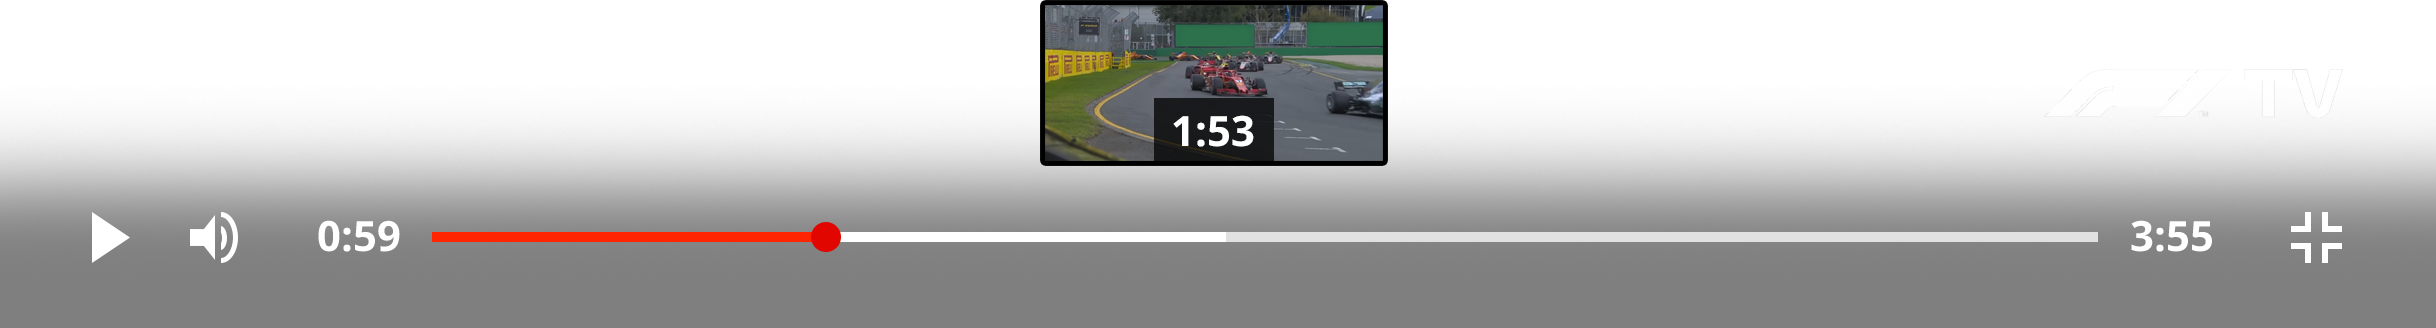
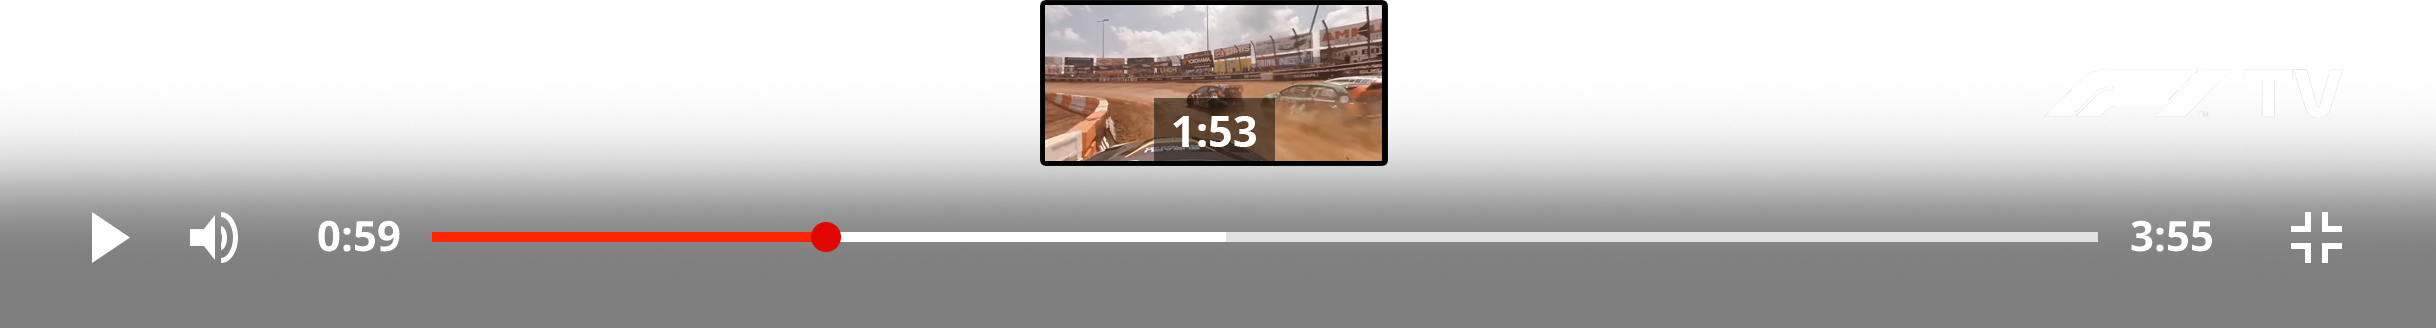
Change order of videos on live/vod. Update schedule.

Changed region(s): [[0.4056, 0.0, 0.5928, 0.4878]]

diff --git a/schedule.html b/schedule.html
@@ -1,24 +1,23 @@
-<html lang="en"><head>
+<html lang="en">
+<head>
     <meta charset="UTF-8">
     <meta name="viewport" content="width=device-width, initial-scale=1.0">
     <meta http-equiv="X-UA-Compatible" content="ie=edge">
-    <title>BESTSEAT360 - Formula 1</title>
-    <script src="https://kit.fontawesome.com/a076d05399.js"></script><link rel="stylesheet" href="https://kit-free.fontawesome.com/releases/latest/css/free.min.css" media="all">
+    <title>BESTSEAT360 - Toyota Yaris</title>
+    <script src="https://kit.fontawesome.com/a076d05399.js"></script>
+    <link rel="stylesheet" href="https://kit-free.fontawesome.com/releases/latest/css/free.min.css" media="all">
     <link rel="stylesheet" href="/css/bestseat360_styles.css">
-    <!-- <link rel="stylesheet" href="https://cdnjs.cloudflare.com/ajax/libs/font-awesome/4.7.0/css/font-awesome.min.css"> -->
-    <script src="/js/utilities.js"></script>
-    
-        <link rel="stylesheet" href="https://stackpath.bootstrapcdn.com/bootstrap/4.1.3/css/bootstrap.min.css" integrity="sha384-MCw98/SFnGE8fJT3GXwEOngsV7Zt27NXFoaoApmYm81iuXoPkFOJwJ8ERdknLPMO" crossorigin="anonymous">
-        <link href="https://fonts.googleapis.com/css?family=Open+Sans:400,800&amp;display=swap" rel="stylesheet">
-        <link rel="stylesheet" href="css/rally.css?d='23520'">
-        <link rel="icon" href="assets/home/logo_icon.png" type="image/png" sizes="16x16"> 
-    </head>
+    <script src="/js/utilities.js"></script>    
+    <link rel="stylesheet" href="https://stackpath.bootstrapcdn.com/bootstrap/4.1.3/css/bootstrap.min.css" integrity="sha384-MCw98/SFnGE8fJT3GXwEOngsV7Zt27NXFoaoApmYm81iuXoPkFOJwJ8ERdknLPMO" crossorigin="anonymous">
+    <link href="https://fonts.googleapis.com/css?family=Open+Sans:400,800&amp;display=swap" rel="stylesheet">
+    <link rel="stylesheet" href="css/rally.css?d='23520'">
+    <link rel="icon" href="assets/home/logo_icon.png" type="image/png" sizes="16x16"> 
+</head>
 <body>
     <div id="main-section">
     <nav class="navbar navbar-expand-lg navbar-dark">
         <div class="container">
                 <a href="index.html"><img src="assets/home/logo.png" style="width: 160px;"></a>
-            <!-- Placeholder navigation items -->
             <button aria-controls="navbar" aria-expanded="false" aria-label="Toggle navigation" class="navbar-toggler" data-target="#navbar" data-toggle="collapse" type="button">
                 <span class="navbar-toggler-icon"></span>
             </button>
@@ -32,7 +31,6 @@
 
     <main>
         <div class="container" style="padding-top: 15px;">
-            <!-- Subscribe to email news letter -->
             <div class="alert alert-info" role="alert" style="display:none;">
                 <h4 class="alert-heading">Let us take you into the action</h4>
                 <p>A notification will be sent to you 5 minutes before the race starts. Remember to move your phone and look around to experience LIVE 360 motor racing.</p>
@@ -44,24 +42,12 @@
                     <input type="hidden" name="add_race_name"/>
                     <button type="submit" class="btn btn-primary subscribe-btn">Subscribe</button>
                 </form>
-                <!-- Button to close email subscription alert -->
                 <button type="button" class="close close-icon sbc-close">
                     <span aria-hidden="true">&times;</span>
                 </button>
             </div>
 
             <div class="container remove-padding schedule-content upcoming-races">
-                <!-- <div class="row" style="margin-bottom: -15px;">
-                    <div class="col-md-8 full-padding">
-                        <span class="section-title mobile-break">World First LIVE Formula 1 TV 360 in Race Experience</span>
-                        <p>The 360 experience is best viewed on a smartphone connected to a smart TV.</p>
-                    </div>
-                    <div class="col-md-4 full-padding">
-                        <input type="text" class="form-control searchInput" id="searchQuery" name="searchQuery" onkeyup="filterSchedule()" placeholder="Search">
-                    </div>
-                </div> -->
-
-
                 <div class="row" style="margin-bottom: 0;">
                     <div class="col-md-9 full-padding">
                         <span style="font-weight: 800; font-size: 18px; color:#de2830;"><img src="assets/spark-sport.png" style=" width: 162px; margin-right: 10px; margin-top: -4px;">Race Schedule</span>
@@ -70,7 +56,7 @@
                     </div>
                 </div>
 
-                <a class="row schedule-table" href="#">
+                <a class="row schedule-table" href="yaris.html" target="_blank">
                     <div class="col-md-3 remove-padding image-column">
                         <img src="assets/home/yaris-thumb.png" alt="" class="img-obj-fit">
                     </div>
@@ -90,7 +76,7 @@
                             </div>
                             <div class="col-md-4  home-date-section">
                                 <div class="home-countdown">26th July 2020</div> <!-- Date -->
-                                <div class="home-date">3:00 PM</div> <!-- Time -->
+                                <div class="home-date">2:00 PM</div> <!-- Time -->
                             </div>
                         </div>
                     </div>
@@ -175,7 +161,7 @@
                                 <!-- <div class="-home-location">Red Bull Ring</div> -->
                             </div>
                             <div class="col-md-4  home-date-section">
-                                <div class="home-countdown">6th July 2020</div>
+                                <div class="home-countdown">26th July 2020</div>
                                 <div class="home-date">Real-time 360 Racing</div>
                             </div>
                         </div>

diff --git a/vod.html b/vod.html
@@ -7,9 +7,7 @@
         <script src="https://kit.fontawesome.com/a076d05399.js"></script>
         <link rel="stylesheet" href="https://kit-free.fontawesome.com/releases/latest/css/free.min.css" media="all">
         <link rel="stylesheet" href="/css/bestseat360_styles.css">
-        <!-- <link rel="stylesheet" href="https://cdnjs.cloudflare.com/ajax/libs/font-awesome/4.7.0/css/font-awesome.min.css"> -->
         <script src="/js/utilities.js"></script>
-
         <link rel="stylesheet" href="https://stackpath.bootstrapcdn.com/bootstrap/4.1.3/css/bootstrap.min.css"
             integrity="sha384-MCw98/SFnGE8fJT3GXwEOngsV7Zt27NXFoaoApmYm81iuXoPkFOJwJ8ERdknLPMO" crossorigin="anonymous">
         <link href="https://fonts.googleapis.com/css?family=Open+Sans:400,800&amp;display=swap" rel="stylesheet">
@@ -24,10 +22,10 @@
                     <!-- <img class="menu-icon" id="cam-config" alt="Menu Icon" src="assets/hud/menu-icon.png"> -->
                     <a href="schedule.html"><img class="back-btn" id="cam-config" alt="Back Button" src="assets/hud/back.png"></a>
                     <ul class="drivers">
-                        <img class="driver-name" id="lwannin" src="assets/hud/drivers/dhenwoodin-active.png" alt="Lee-Anne Wann IN">
-                        <img class="driver-name" id="lwannout" src="assets/hud/drivers/dhenwoodout.png" alt="Lee-Anne Wann OUT">
-                        <img class="driver-name" id="swalkerin" src="assets/hud/drivers/mkamoin.png" alt="Stan Walker IN">
-                        <img class="driver-name" id="swalkerout" src="assets/hud/drivers/mkamoout.png" alt="Stan Walker OUT">
+                        <img class="driver-name" id="lwannout" src="assets/hud/drivers/dhenwoodout-active.png" alt="Dai Henwood OUT">
+                        <img class="driver-name" id="swalkerout" src="assets/hud/drivers/mkamoout.png" alt="Miriama Kamo OUT">
+                        <img class="driver-name" id="lwannin" src="assets/hud/drivers/dhenwoodin.png" alt="Dai Henwood IN">
+                        <img class="driver-name" id="swalkerin" src="assets/hud/drivers/mkamoin.png" alt="Miriama Kamo IN">
                         <img class="driver-name" id="track" src="assets/hud/drivers/track.png" alt="Track">
                     </ul>
                 </div>
@@ -43,7 +41,7 @@
                     </div>
                 </div>
             </div>
-            <video class="main-video" src="assets/hud/drivers/dhenwoodin.mp4" poster="/html/assets/home/poster.png" autoplay loop muted playsinline></video>
+            <video class="main-video" src="assets/hud/drivers/dhenwoodout.mp4" poster="/html/assets/home/poster.png" autoplay loop muted playsinline></video>
         </main>
         <script src="https://ajax.googleapis.com/ajax/libs/jquery/1.12.4/jquery.min.js"></script>
         <script src="https://cdnjs.cloudflare.com/ajax/libs/popper.js/1.14.3/umd/popper.min.js"

diff --git a/live.html b/live.html
@@ -24,10 +24,10 @@
                     <!-- <img class="menu-icon" id="cam-config" alt="Menu Icon" src="assets/hud/menu-icon.png"> -->
                     <a href="schedule.html"><img class="back-btn" id="cam-config" alt="Back Button" src="assets/hud/back.png"></a>
                     <ul class="drivers">
-                        <img class="driver-name" id="lwannin" src="assets/hud/drivers/lwannin-active.png" alt="Lee-Anne Wann IN">
-                        <img class="driver-name" id="lwannout" src="assets/hud/drivers/lwannout.png" alt="Lee-Anne Wann OUT">
-                        <img class="driver-name" id="swalkerin" src="assets/hud/drivers/swalkerin.png" alt="Stan Walker IN">
+                        <img class="driver-name" id="lwannout" src="assets/hud/drivers/lwannout-active.png" alt="Lee-Anne Wann OUT">
                         <img class="driver-name" id="swalkerout" src="assets/hud/drivers/swalkerout.png" alt="Stan Walker OUT">
+                        <img class="driver-name" id="lwannin" src="assets/hud/drivers/lwannin.png" alt="Lee-Anne Wann IN">
+                        <img class="driver-name" id="swalkerin" src="assets/hud/drivers/swalkerin.png" alt="Stan Walker IN">
                         <img class="driver-name" id="track" src="assets/hud/drivers/track.png" alt="Track">
                     </ul>
                 </div>
@@ -39,20 +39,11 @@
                     <div class="track-and-stats">
                         <img class="speedometer race-stats" id="driver-stats" src="assets/hud/stats-lhamilton.png" alt="Race Stats and Map">
                         <img class="speedometer race-stats" src="assets/hud/stats2.png" alt="Race Stats and Map" style="display:none;">
-                        <!-- <div>
-                            <span class="stat-title">SPEED</span>
-                            <span class="stat-number">236</span><span class="stat-metric">KM</span>
-                        </div>
-                        <div>
-                            <span class="stat-title">DISTANCE</span>
-                            <span class="stat-number">98</span><span class="stat-metric">KM</span>
-                        </div>
-                        <img class="track" alt="Track Map" src="assets/hud/track.png"> -->
                     </div>
                     <img class="f1-logo" alt="F1TV Logo" src="assets/spark-sport.png">
                 </div>
             </div>
-            <video class="main-video" src="assets/hud/drivers/lwannin.mp4" poster="/html/assets/home/poster.png" autoplay loop muted playsinline></video>
+            <video class="main-video" src="assets/hud/drivers/lwannout.mp4" poster="/html/assets/home/poster.png" autoplay loop muted playsinline></video>
         </main>
 
         <script src="https://ajax.googleapis.com/ajax/libs/jquery/1.12.4/jquery.min.js"></script>

diff --git a/yaris.html b/yaris.html
@@ -1,0 +1,32 @@
+<html lang="en">
+    <head>
+        <meta charset="UTF-8">
+        <meta name="viewport" content="width=device-width, initial-scale=1.0">
+        <meta http-equiv="X-UA-Compatible" content="ie=edge">
+        <title>BESTSEAT360 - Video on Demand</title>
+        <script src="https://kit.fontawesome.com/a076d05399.js"></script>
+        <link rel="stylesheet" href="https://kit-free.fontawesome.com/releases/latest/css/free.min.css" media="all">
+        <link rel="stylesheet" href="/css/bestseat360_styles.css">
+        <script src="/js/utilities.js"></script>
+        <link rel="stylesheet" href="https://stackpath.bootstrapcdn.com/bootstrap/4.1.3/css/bootstrap.min.css"
+            integrity="sha384-MCw98/SFnGE8fJT3GXwEOngsV7Zt27NXFoaoApmYm81iuXoPkFOJwJ8ERdknLPMO" crossorigin="anonymous">
+        <link href="https://fonts.googleapis.com/css?family=Open+Sans:400,800&amp;display=swap" rel="stylesheet">
+        <link rel="stylesheet" href="css/f1styles.css">
+        <link rel="icon" href="assets/home/logo_icon.png" type="assets/home/png" sizes="16x16">
+    </head>
+
+    <body>
+        <main>
+            <iframe id="video" src="https://www.youtube.com/embed/_6ycpkczaqM?rel=0&autoplay=1" frameborder="0" allowfullscreen height="100%"></iframe>
+        </main>
+        <script src="https://ajax.googleapis.com/ajax/libs/jquery/1.12.4/jquery.min.js"></script>
+        <script src="https://cdnjs.cloudflare.com/ajax/libs/popper.js/1.14.3/umd/popper.min.js"
+            integrity="sha384-ZMP7rVo3mIykV+2+9J3UJ46jBk0WLaUAdn689aCwoqbBJiSnjAK/l8WvCWPIPm49"
+            crossorigin="anonymous"></script>
+        <script src="https://stackpath.bootstrapcdn.com/bootstrap/4.1.3/js/bootstrap.min.js"
+            integrity="sha384-ChfqqxuZUCnJSK3+MXmPNIyE6ZbWh2IMqE241rYiqJxyMiZ6OW/JmZQ5stwEULTy"
+            crossorigin="anonymous"></script>
+            <script src="js/main.js"></script>
+            <script src="js/f1switch.js"></script>
+    </body>
+</html>

diff --git a/index.html b/index.html
@@ -3,7 +3,7 @@
         <meta charset="UTF-8">
         <meta name="viewport" content="width=device-width, initial-scale=1.0">
         <meta http-equiv="X-UA-Compatible" content="ie=edge">
-        <title>BESTSEAT360 - Home</title>
+        <title>BESTSEAT360</title>
         <script src="https://kit.fontawesome.com/a076d05399.js"></script>
         <link rel="stylesheet" href="https://kit-free.fontawesome.com/releases/latest/css/free.min.css" media="all">
         <link rel="stylesheet" href="/css/bestseat360_styles.css">
@@ -54,9 +54,6 @@
                                             TAKING YOU INTO THE ACTION
                                         </p>
                                     </div>
-                                    <!-- <a class="landing-btn" data-toggle="modal" data-target="#watchModal" data-whatever="https://www.youtube.com/embed/agumpDHniUw">
-                                    EXPERIENCE 360
-                                    </a> -->
 
                                     <a class="landing-btn" href="schedule.html" style="color: #fff; text-decoration: none;">
                                     YARIS 360 LIVE

diff --git a/css/rally.css b/css/rally.css
@@ -768,3 +768,7 @@ nav {
 .config-ui {
     width: 100%;
 }
+
+iframe {
+    height: 100%;
+}
